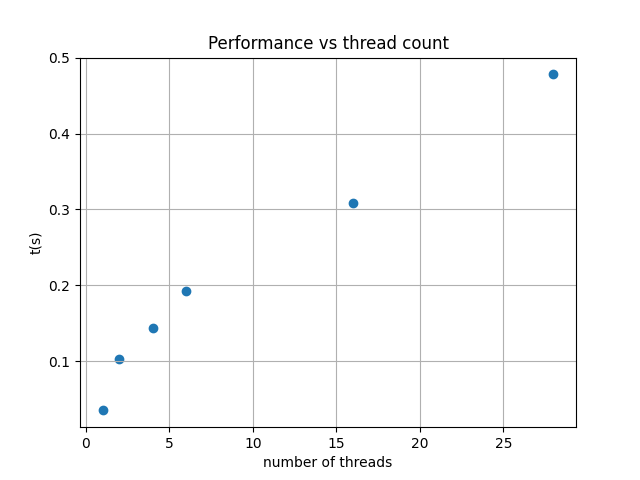
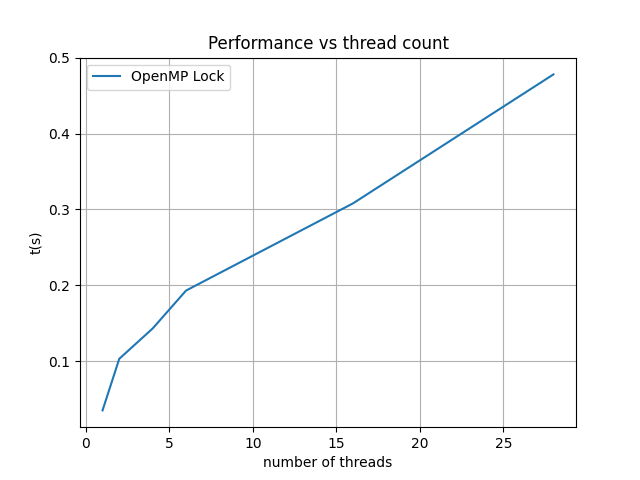
finished problems 2 and 3

diff --git a/lab/lab2/code/t1/plot_times.py b/lab/lab2/code/t1/plot_times.py
@@ -1,12 +1,18 @@
 import numpy as np
 import matplotlib.pyplot as plt
 
+
 plt.figure()
-x = np.array([1,2,4,6,16,28])
+x = np.array([1,2,4,8,16,28])
 y = np.array([0.035, 0.103, 0.143, 0.193, 0.308, 0.478])
-plt.scatter(x,y)
+y2 = np.array([0.038, 0.0836, 0.118, 0.159, 0.187, 0.217])
+y3 = np.array([0.0146, .035, .060, .055, .056, .062])
+plt.plot(x,y, label='OpenMP Lock')
+plt.plot(x,y2, label='OpenMP Critical')
+plt.plot(x,y3, label='OpenMP Atomic')
 plt.xlabel('number of threads')
 plt.ylabel('t(s)')
+plt.legend()
 plt.grid()
 plt.title('Performance vs thread count')
 plt.show()

diff --git a/lab/lab2/observations.md b/lab/lab2/observations.md
@@ -1,0 +1,1 @@
+* The first and most obvious observation is the dramatic increase in performance between making the counter operation atomic vs using omp's lock construct and our own custom lock construct.It's remarkable how the slope of the line for the atomic operation is much smaller than the others so not only does the computer take less time in each of the executions but it also scales much better.
